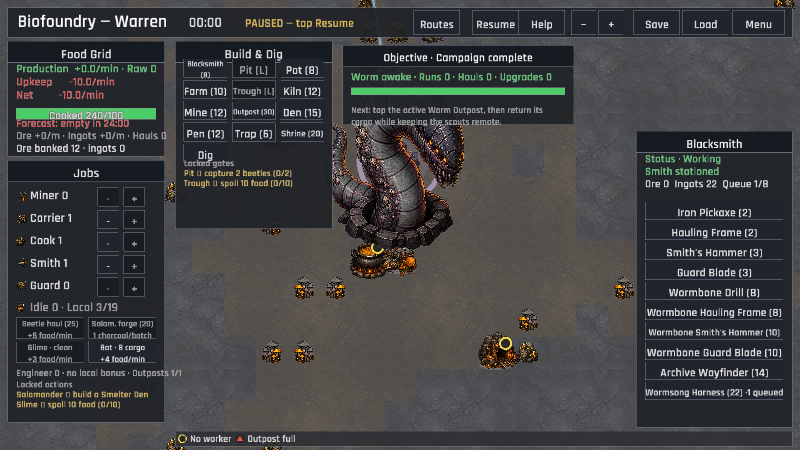
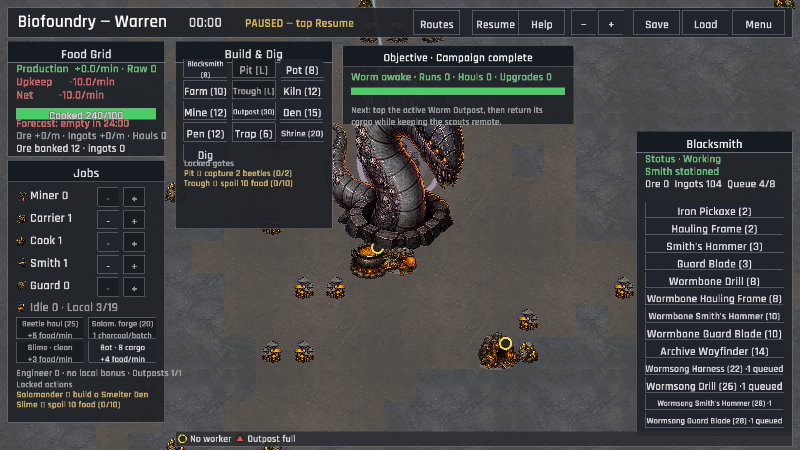
The resonance song arms every keeper of the road (complete Wormsong equipment tier)
The first Muster reward had only a carrier harness, leaving the new route-song tier incomplete for the other workers who sustain the warren. Add wormsong_drill, wormsong_harness, wormsong_smiths_hammer, and wormsong_guard_blade behind the persisted 
esonance_forging unlock, with stronger values than the Wormbone set.

Extend data validation, live prerequisite copy, auto-equip replacement, deterministic capture setup, and compact Blacksmith sizing so all thirteen recipes remain visible at 800x450. Focused and full tests, capture review, touch audit, formatting, clippy, and the required publish.ps1 path pass.

Changed region(s): [[0.7812, 0.4667, 1.0, 0.9644], [0.875, 0.4044, 0.9688, 0.4356]]

diff --git a/src/simulation/tests/archive_gear.rs b/src/simulation/tests/archive_gear.rs
@@ -99,6 +99,56 @@ fn first_muster_unlocks_and_replaces_the_archive_carrier_tool() {
 }
 
 #[test]
+fn resonance_tools_replace_weaker_specialist_tools() {
+    let (data, mut session, _) = super::novel::active_outpost(182);
+    session.unlocked.insert("resonance_forging".to_owned());
+    let stockpile = session.stockpile_pos();
+    session.creatures.clear();
+    for (species, job, weaker, stronger) in [
+        ("goblin", Job::Miner, "wormbone_drill", "wormsong_drill"),
+        (
+            "goblin",
+            Job::Smith,
+            "wormbone_smiths_hammer",
+            "wormsong_smiths_hammer",
+        ),
+        (
+            "goblin",
+            Job::Guard,
+            "wormbone_guard_blade",
+            "wormsong_guard_blade",
+        ),
+    ] {
+        session.spawn_creature(&data, species, job);
+        let creature = session.creatures.last_mut().expect("specialist spawned");
+        creature.equipment = Some(weaker.to_owned());
+        creature.x = stockpile.x as f32 + 0.5;
+        creature.y = stockpile.y as f32 + 0.5;
+        session.economy.gear_stock.insert(stronger.to_owned(), 1);
+    }
+
+    simulation::tick(&mut session, &data);
+
+    for (job, stronger, weaker) in [
+        (Job::Miner, "wormsong_drill", "wormbone_drill"),
+        (
+            Job::Smith,
+            "wormsong_smiths_hammer",
+            "wormbone_smiths_hammer",
+        ),
+        (Job::Guard, "wormsong_guard_blade", "wormbone_guard_blade"),
+    ] {
+        let creature = session
+            .creatures
+            .iter()
+            .find(|creature| creature.job == job)
+            .expect("specialist remains present");
+        assert_eq!(creature.equipment.as_deref(), Some(stronger));
+        assert_eq!(session.economy.gear_stock.get(weaker), Some(&1));
+    }
+}
+
+#[test]
 fn relay_contract_needs_two_active_routes_and_rewards_once() {
     let (data, mut session, _) = super::novel::active_outpost(173);
     session.outpost_charter_claimed = true;

diff --git a/src/game/capture_scenes/endless.rs b/src/game/capture_scenes/endless.rs
@@ -649,17 +649,25 @@ pub(super) fn begin(game: &mut Game, scene: &str) {
                         blacksmith.orders.clear();
                         blacksmith.stocks.clear();
                     }
-                    session.economy.ingots_stock = game
-                        .data
-                        .equipment_def("wormsong_harness")
+                    let resonance_tools = [
+                        "wormsong_harness",
+                        "wormsong_drill",
+                        "wormsong_smiths_hammer",
+                        "wormsong_guard_blade",
+                    ];
+                    session.economy.ingots_stock = resonance_tools
+                        .iter()
+                        .filter_map(|id| game.data.equipment_def(id))
                         .map(|equipment| equipment.cost_ingots)
-                        .unwrap_or(22);
-                    let _ = session.queue_equipment_order(
-                        &game.data,
-                        pos,
-                        "wormsong_harness".to_owned(),
-                        game.data.balance.order_queue_size,
-                    );
+                        .sum();
+                    for id in resonance_tools {
+                        let _ = session.queue_equipment_order(
+                            &game.data,
+                            pos,
+                            id.to_owned(),
+                            game.data.balance.order_queue_size,
+                        );
+                    }
                     game.selected_building = Some(pos);
                     focus_pos = Some(pos);
                 }

diff --git a/src/data/tests.rs b/src/data/tests.rs
@@ -101,16 +101,20 @@ fn equipment_loads_with_valid_job_affinities() {
         wayfinder.value > frame.value,
         "the first Archive page should improve hauling"
     );
-    let harness = data
-        .equipment_def("wormsong_harness")
-        .expect("Wormsong Harness exists");
-    assert_eq!(harness.job, "carrier");
-    assert_eq!(
-        harness.requires_unlock.as_deref(),
-        Some("resonance_forging")
-    );
+    let resonance_tools = [
+        ("wormsong_harness", "carrier", 6.0),
+        ("wormsong_drill", "miner", 2.5),
+        ("wormsong_smiths_hammer", "smith", 0.5),
+        ("wormsong_guard_blade", "guard", 2.5),
+    ];
+    for (id, job, value) in resonance_tools {
+        let tool = data.equipment_def(id).expect("Wormsong tool exists");
+        assert_eq!(tool.job, job);
+        assert_eq!(tool.value, value);
+        assert_eq!(tool.requires_unlock.as_deref(), Some("resonance_forging"));
+    }
     assert!(
-        harness.value > wayfinder.value,
+        data.equipment_def("wormsong_harness").unwrap().value > wayfinder.value,
         "the first Muster should improve the carrier tier"
     );
     assert!(data.unlocks.iter().any(

diff --git a/src/ui/hud/inspect.rs b/src/ui/hud/inspect.rs
@@ -69,6 +69,9 @@ pub(super) fn draw_inspect_panel(
     // The blacksmith panel carries the production-order queue and craft
     // buttons, and the breeding pit its breed buttons — both taller.
     let height = match building.kind.as_str() {
+        "blacksmith" if compact && data.equipment.len() >= 13 => {
+            124.0 + data.equipment.len() as f32 * inspect_button_step
+        }
         "blacksmith" if compact && data.equipment.len() >= 10 => {
             154.0 + data.equipment.len() as f32 * inspect_button_step
         }
@@ -751,7 +754,9 @@ pub(super) fn draw_inspect_panel(
 }
 
 fn inspection_button_metrics(kind: &str, compact: bool, equipment_count: usize) -> (f32, f32) {
-    if compact && kind == "blacksmith" && equipment_count >= 10 {
+    if compact && kind == "blacksmith" && equipment_count >= 13 {
+        (26.0, 28.0)
+    } else if compact && kind == "blacksmith" && equipment_count >= 10 {
         (30.0, 32.0)
     } else if compact && kind == "blacksmith" && equipment_count >= 8 {
         (34.0, 38.0)

diff --git a/src/ui/hud/inspect/tests.rs b/src/ui/hud/inspect/tests.rs
@@ -117,34 +117,6 @@ fn locked_specialist_marker_uses_font_safe_ascii() {
 }
 
 #[test]
-fn compact_specialist_cards_use_larger_action_targets() {
-    assert_eq!(
-        inspection_button_metrics("blacksmith", true, 8),
-        (34.0, 38.0)
-    );
-    assert_eq!(
-        inspection_button_metrics("blacksmith", true, 10),
-        (30.0, 32.0)
-    );
-    assert_eq!(
-        inspection_button_metrics("breeding_pit", true, 0),
-        (36.0, 40.0)
-    );
-    assert_eq!(
-        inspection_button_metrics("breeding_pit", false, 0),
-        (38.0, 42.0)
-    );
-    assert_eq!(
-        inspection_button_metrics("worm_shrine", true, 0),
-        (30.0, 34.0)
-    );
-    assert_eq!(
-        inspection_button_metrics("blacksmith", false, 8),
-        (24.0, 26.0)
-    );
-}
-
-#[test]
 fn locked_specialists_show_their_live_unlock_progress() {
     let data = GameData::load().expect("embedded game data");
     let mut session = GameSession::new(&data, 13);

diff --git a/src/ui/hud/inspect/tests/equipment.rs b/src/ui/hud/inspect/tests/equipment.rs
@@ -1,4 +1,4 @@
-use super::super::equipment_lock_label;
+use super::super::{equipment_lock_label, inspection_button_metrics};
 use crate::data::GameData;
 
 #[test]
@@ -24,5 +24,25 @@ fn blacksmith_uses_the_exact_muster_gate_for_wormsong_harness() {
     assert_eq!(
         equipment_lock_label(&data, harness),
         "Needs hold 1 Worm Road Muster"
+    );
+}
+
+#[test]
+fn compact_blacksmith_cards_shrink_for_the_complete_wormsong_tier() {
+    assert_eq!(
+        inspection_button_metrics("blacksmith", true, 8),
+        (34.0, 38.0)
+    );
+    assert_eq!(
+        inspection_button_metrics("blacksmith", true, 10),
+        (30.0, 32.0)
+    );
+    assert_eq!(
+        inspection_button_metrics("blacksmith", true, 13),
+        (26.0, 28.0)
+    );
+    assert_eq!(
+        inspection_button_metrics("blacksmith", false, 8),
+        (24.0, 26.0)
     );
 }

diff --git a/docs/phase-one/CANDIDATE_VERIFICATION.md b/docs/phase-one/CANDIDATE_VERIFICATION.md
@@ -43,7 +43,7 @@ automated simulation results into first-time-player evidence.
 | Endless Worm Road Waypoint | Pass (focused, capture, and touch-audit evidence) | After a route has a Signal Cache and the Convoy has been cleared, it can spend 36 banked ingots once to install a Worm Road Waypoint. The route-specific transit helper shortens outbound and return worm trips from 18 to 12 seconds, while the inspection card, route ledger, Objective, notification, help copy, world-space route pulse, and midpoint Waypoint marker expose the purchase and `12s transit` payoff. The Waypoint flag persists, older saves default it safely off, load validation rejects bypassed Signal Cache or Convoy gates, and focused simulation/UI coverage pins the one-time spend. [ui_endless_waypoint.png](../verification/ui_endless_waypoint.png) and [ui_endless_waypoint_awarded.png](../verification/ui_endless_waypoint_awarded.png) show the purchase and success toast; [ui_endless_waypoint_in_flight.png](../verification/ui_endless_waypoint_in_flight.png) shows the corrected `12s remaining` transit state; compact variants keep the control, marker, and route summary visible, and the 800×450 touch audit reports no grown-target overlap. |
 | Endless Worm Road Charter | Pass (focused and capture evidence) | After three completed scouting hauls across the awakened Outpost network, the data-driven one-time Charter awards 12 banked ingots and persists its claimed state. The completed-campaign Objective exposes the live haul target and reward, the simulation emits a safe-beat success event, and focused captures show the 2/3 setup and reward toast in `endless_charter` and `endless_charter_awarded`. |
 | Endless Charter equipment payoff | Pass (focused and capture evidence) | Claiming the Worm Road Charter unlocks the data-driven Wormbone toolkit: the 8-ingot Wormbone Drill for miners, the 8-ingot Wormbone Hauling Frame for carriers, the 10-ingot Wormbone Smith's Hammer for smiths, and the 10-ingot Wormbone Guard Blade for guards. The Blacksmith keeps all four recipes disabled with an explicit `Charter required` label until the milestone is claimed; afterward visible recipes can be queued, and any banked Charter ingots are reserved into the Blacksmith buffer at queue time so funded orders can start immediately. The auto-equip loop prefers each Wormbone item over its weaker baseline counterpart, improving mining speed, carrier capacity, craft speed, and guard damage. Focused gate, persistence, simulation, and content-validation coverage pass; refreshed [ui_compact_blacksmith.png](../verification/ui_compact_blacksmith.png) shows the locked recipes, while [ui_compact_endless_wormbone_drill.png](../verification/ui_compact_endless_wormbone_drill.png) shows the funded unlocked toolkit and the 800×450 touch audit reports no grown-target overlap. |
-| Endless Muster equipment payoff | Pass (focused, capture, and touch-audit evidence) | The first held Worm Road Muster now unlocks the data-driven 22-ingot Wormsong Harness for carriers, raising the carrier bonus from the Archive Wayfinder's +4 to +6. The Blacksmith exposes the exact `hold 1 Worm Road Muster` gate before unlock, queues funded harness orders through the existing ingot buffer, and the auto-equip loop replaces a weaker carrier tool after the new gate is granted. Focused data, unlock, persistence, simulation, UI, and content-validation coverage pass; [ui_endless_muster_harness.png](../verification/ui_endless_muster_harness.png) and [ui_compact_endless_muster_harness.png](../verification/ui_compact_endless_muster_harness.png) show the new recipe at normal and compact sizes, while the official 800×450 touch audit reports no grown-target overlap. |
+| Endless Muster equipment payoff | Pass (focused, capture, and touch-audit evidence) | The first held Worm Road Muster now unlocks the data-driven four-role Wormsong toolkit: a 22-ingot +6 Harness for carriers, a 26-ingot 2.5× Drill for miners, a 28-ingot 0.5× Smith's Hammer, and a 28-ingot 2.5× Guard Blade. The Blacksmith exposes the exact `hold 1 Worm Road Muster` gate before unlock, queues funded orders through the existing ingot buffer, and the auto-equip loop replaces weaker Wormbone tools after the new gate is granted. Focused data, unlock, persistence, simulation, UI, and content-validation coverage pass; [ui_endless_muster_harness.png](../verification/ui_endless_muster_harness.png) and [ui_compact_endless_muster_harness.png](../verification/ui_compact_endless_muster_harness.png) show the complete tier at normal and compact sizes, while the official 800×450 touch audit reports no grown-target overlap. |
 | Endless crew dispatch quota | Pass (focused and capture evidence) | An awakened Outpost exposes the visible `Crew per run · Auto` control, which cycles through cargo-only and bounded scout counts. Legacy saves keep automatic dispatch, while cargo-only loads can deliver provisions without borrowing local workers; the Objective names the control when that setting blocks an otherwise-ready scouting payload. Refreshed [ui_endless_load_preview.png](../verification/ui_endless_load_preview.png), [ui_endless_upgrade.png](../verification/ui_endless_upgrade.png), and [ui_endless_upgraded.png](../verification/ui_endless_upgraded.png) captures keep the route controls readable. |
 | Endless cargo-only returns | Pass (focused and capture evidence) | A staffed Outpost exposes `Send N cargo · keep crew` beside the normal full return, so a completed haul can come home without recalling the remote scouts. The route keeps those scouts assigned for another expedition, the departure notice explains the choice, and the Objective/field guide describe the remote-team outcome. Refreshed [ui_endless.png](../verification/ui_endless.png), [ui_endless_expedition_report.png](../verification/ui_endless_expedition_report.png), and [ui_endless_upgraded.png](../verification/ui_endless_upgraded.png) captures keep both return paths readable. |
 | Endless automatic cargo returns | Pass (focused and capture evidence) | An awakened Outpost exposes the persisted `Auto-return · Off` / `Auto-return · Cargo only` policy. When an opted-in hold reaches capacity, the fixed-step simulation starts one cargo-only return, preserves the remote scouts and one configured expedition's food when other cargo creates room, and returns provisions too when they alone fill the hold so the route can resupply. It emits a departure notice and autosaves the safe beat; later routes wait for the global worm transit. Refreshed [ui_endless_auto_return.png](../verification/ui_endless_auto_return.png) shows the enabled policy beside the manual return and scouting controls. Live Preview route interaction remains unclaimed because the resumed developer save has not yet reached the Outpost unlock. |
@@ -94,7 +94,7 @@ automated simulation results into first-time-player evidence.
 ## Automated candidate checks
 
 - `cargo fmt -- --check` — pass.
-- `cargo test --all-targets` — 457 unit tests and 2 integration/code-standard
+- `cargo test --all-targets` — 458 unit tests and 2 integration/code-standard
   targets pass,
   including fresh/simulated/remote-transit valid sessions, modal route
   planning, rejected malformed save shapes, and event-history save/load
@@ -304,10 +304,11 @@ automated simulation results into first-time-player evidence.
   captures show the locked and funded unlocked states, with the 800×450 touch
   audit reporting no grown-target overlap.
 - Endless Muster equipment payoff — pass; the first held Worm Road Muster now
-  unlocks a save-compatible 22-ingot Wormsong Harness with a +6 carrier bonus,
-  above the Archive Wayfinder's +4. The Blacksmith shows the exact `hold 1
-  Worm Road Muster` gate, funded queueing uses the existing ingot buffer, and
-  auto-equip replaces a weaker carrier tool. Refreshed
+  unlocks a save-compatible four-role Wormsong toolkit: a 22-ingot +6 carrier
+  Harness, a 26-ingot 2.5× miner Drill, a 28-ingot 0.5× smith's Hammer, and a
+  28-ingot 2.5× guard Blade. The Blacksmith shows the exact `hold 1 Worm Road
+  Muster` gate, funded queueing uses the existing ingot buffer, and auto-equip
+  replaces weaker Wormbone tools. Refreshed
   [ui_endless_muster_harness.png](../verification/ui_endless_muster_harness.png)
   and [ui_compact_endless_muster_harness.png](../verification/ui_compact_endless_muster_harness.png)
   captures show the recipe at both layout sizes; the official 800×450 touch
